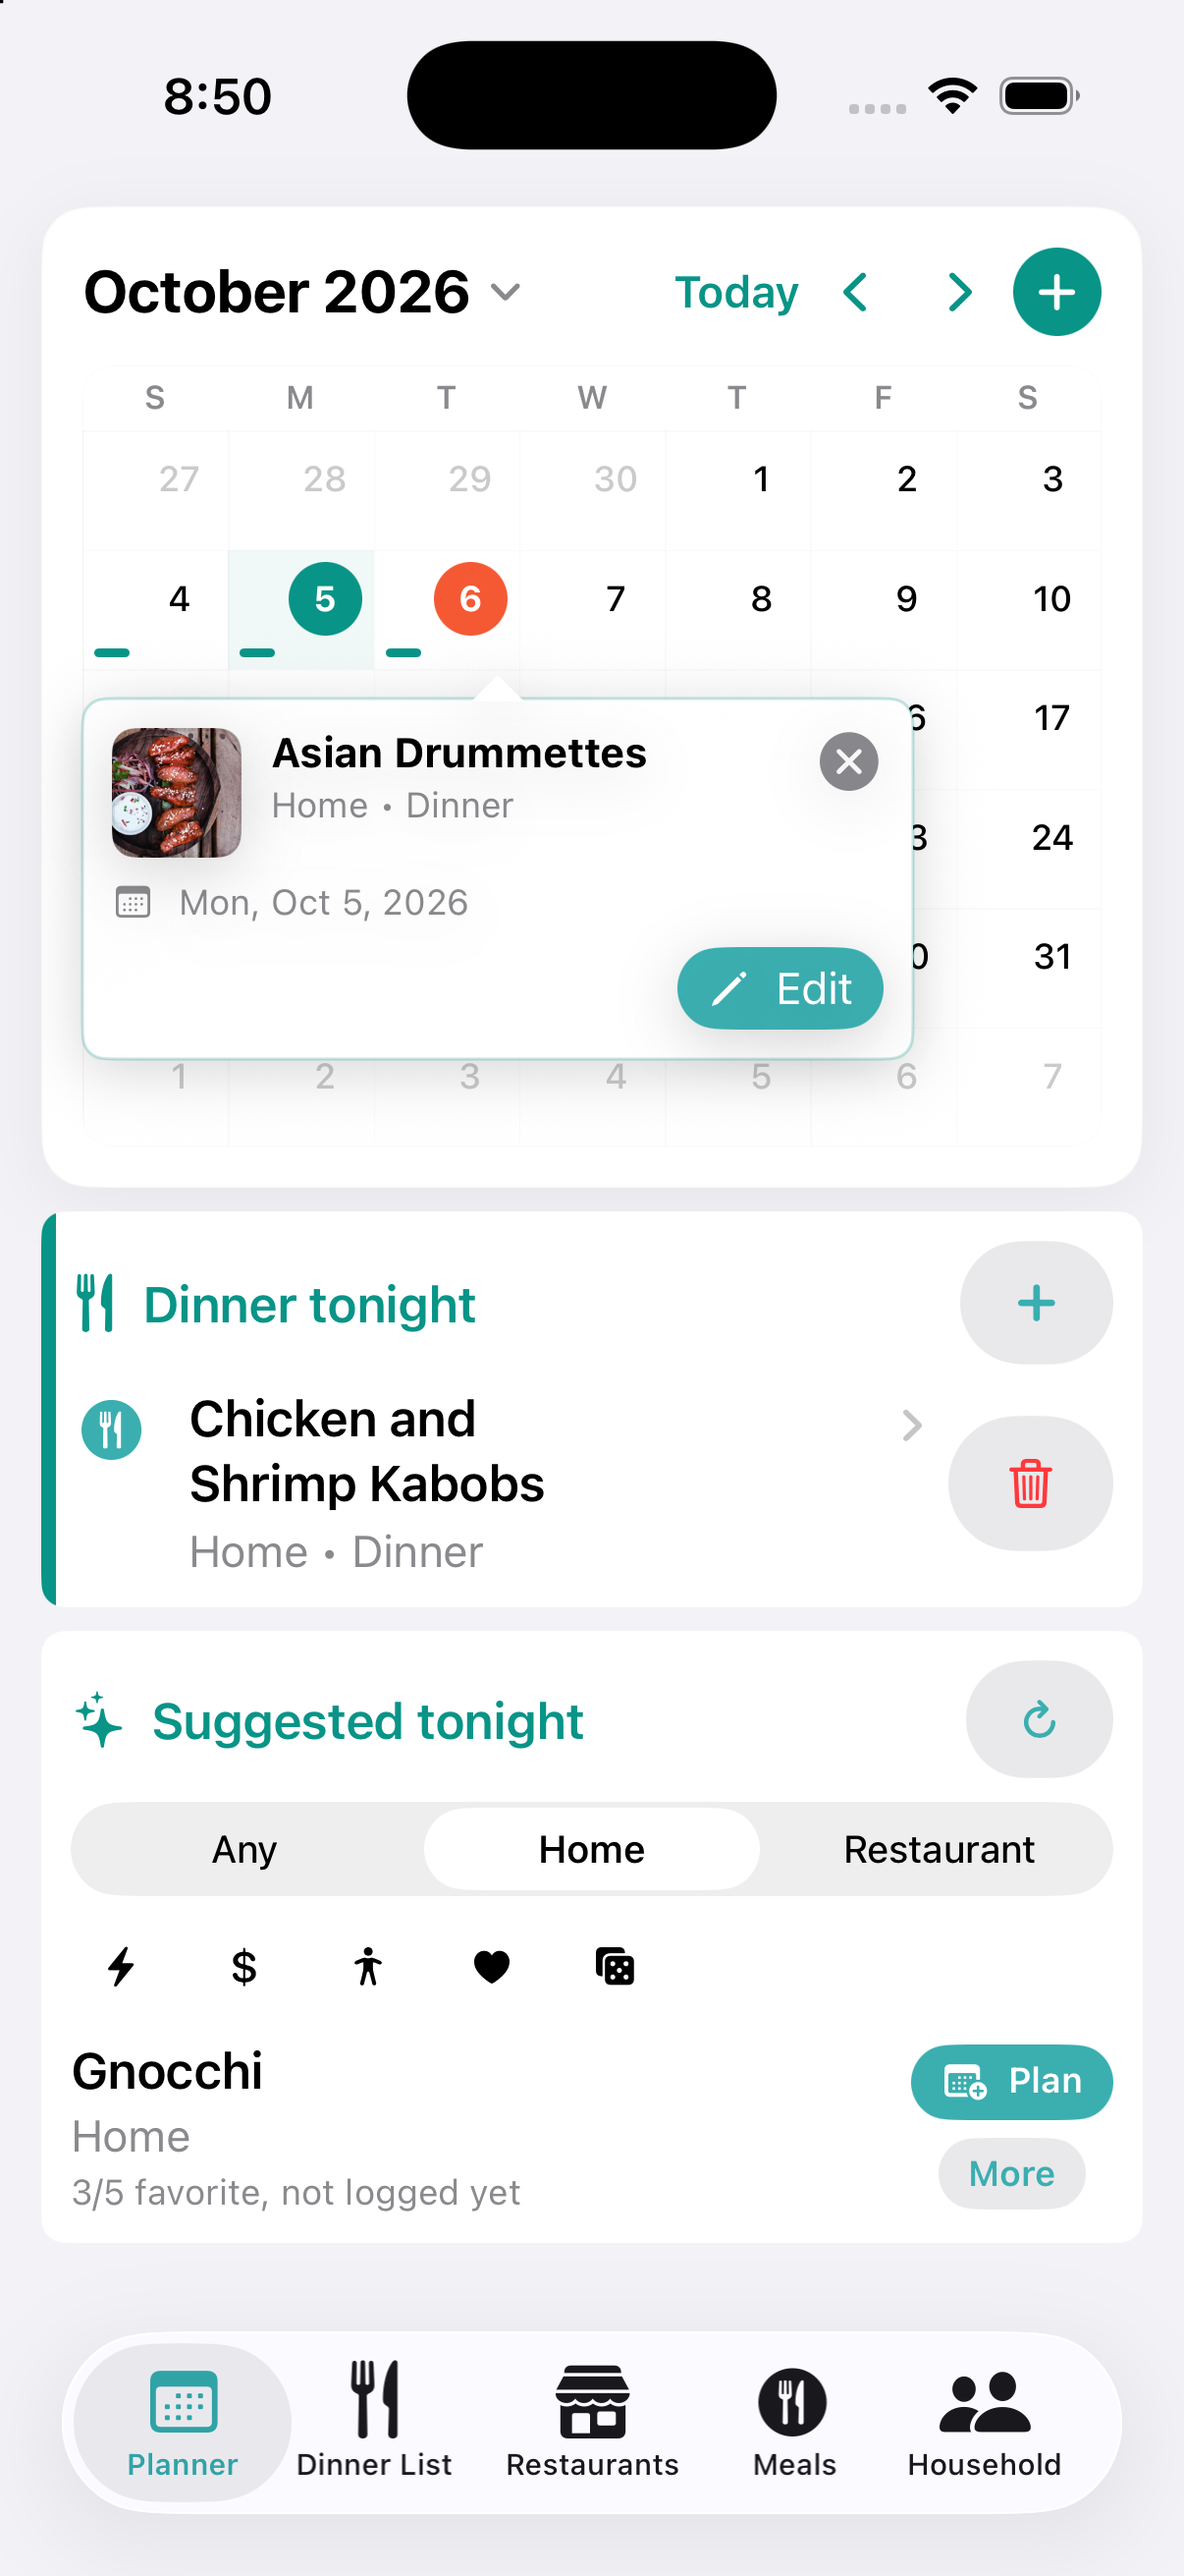
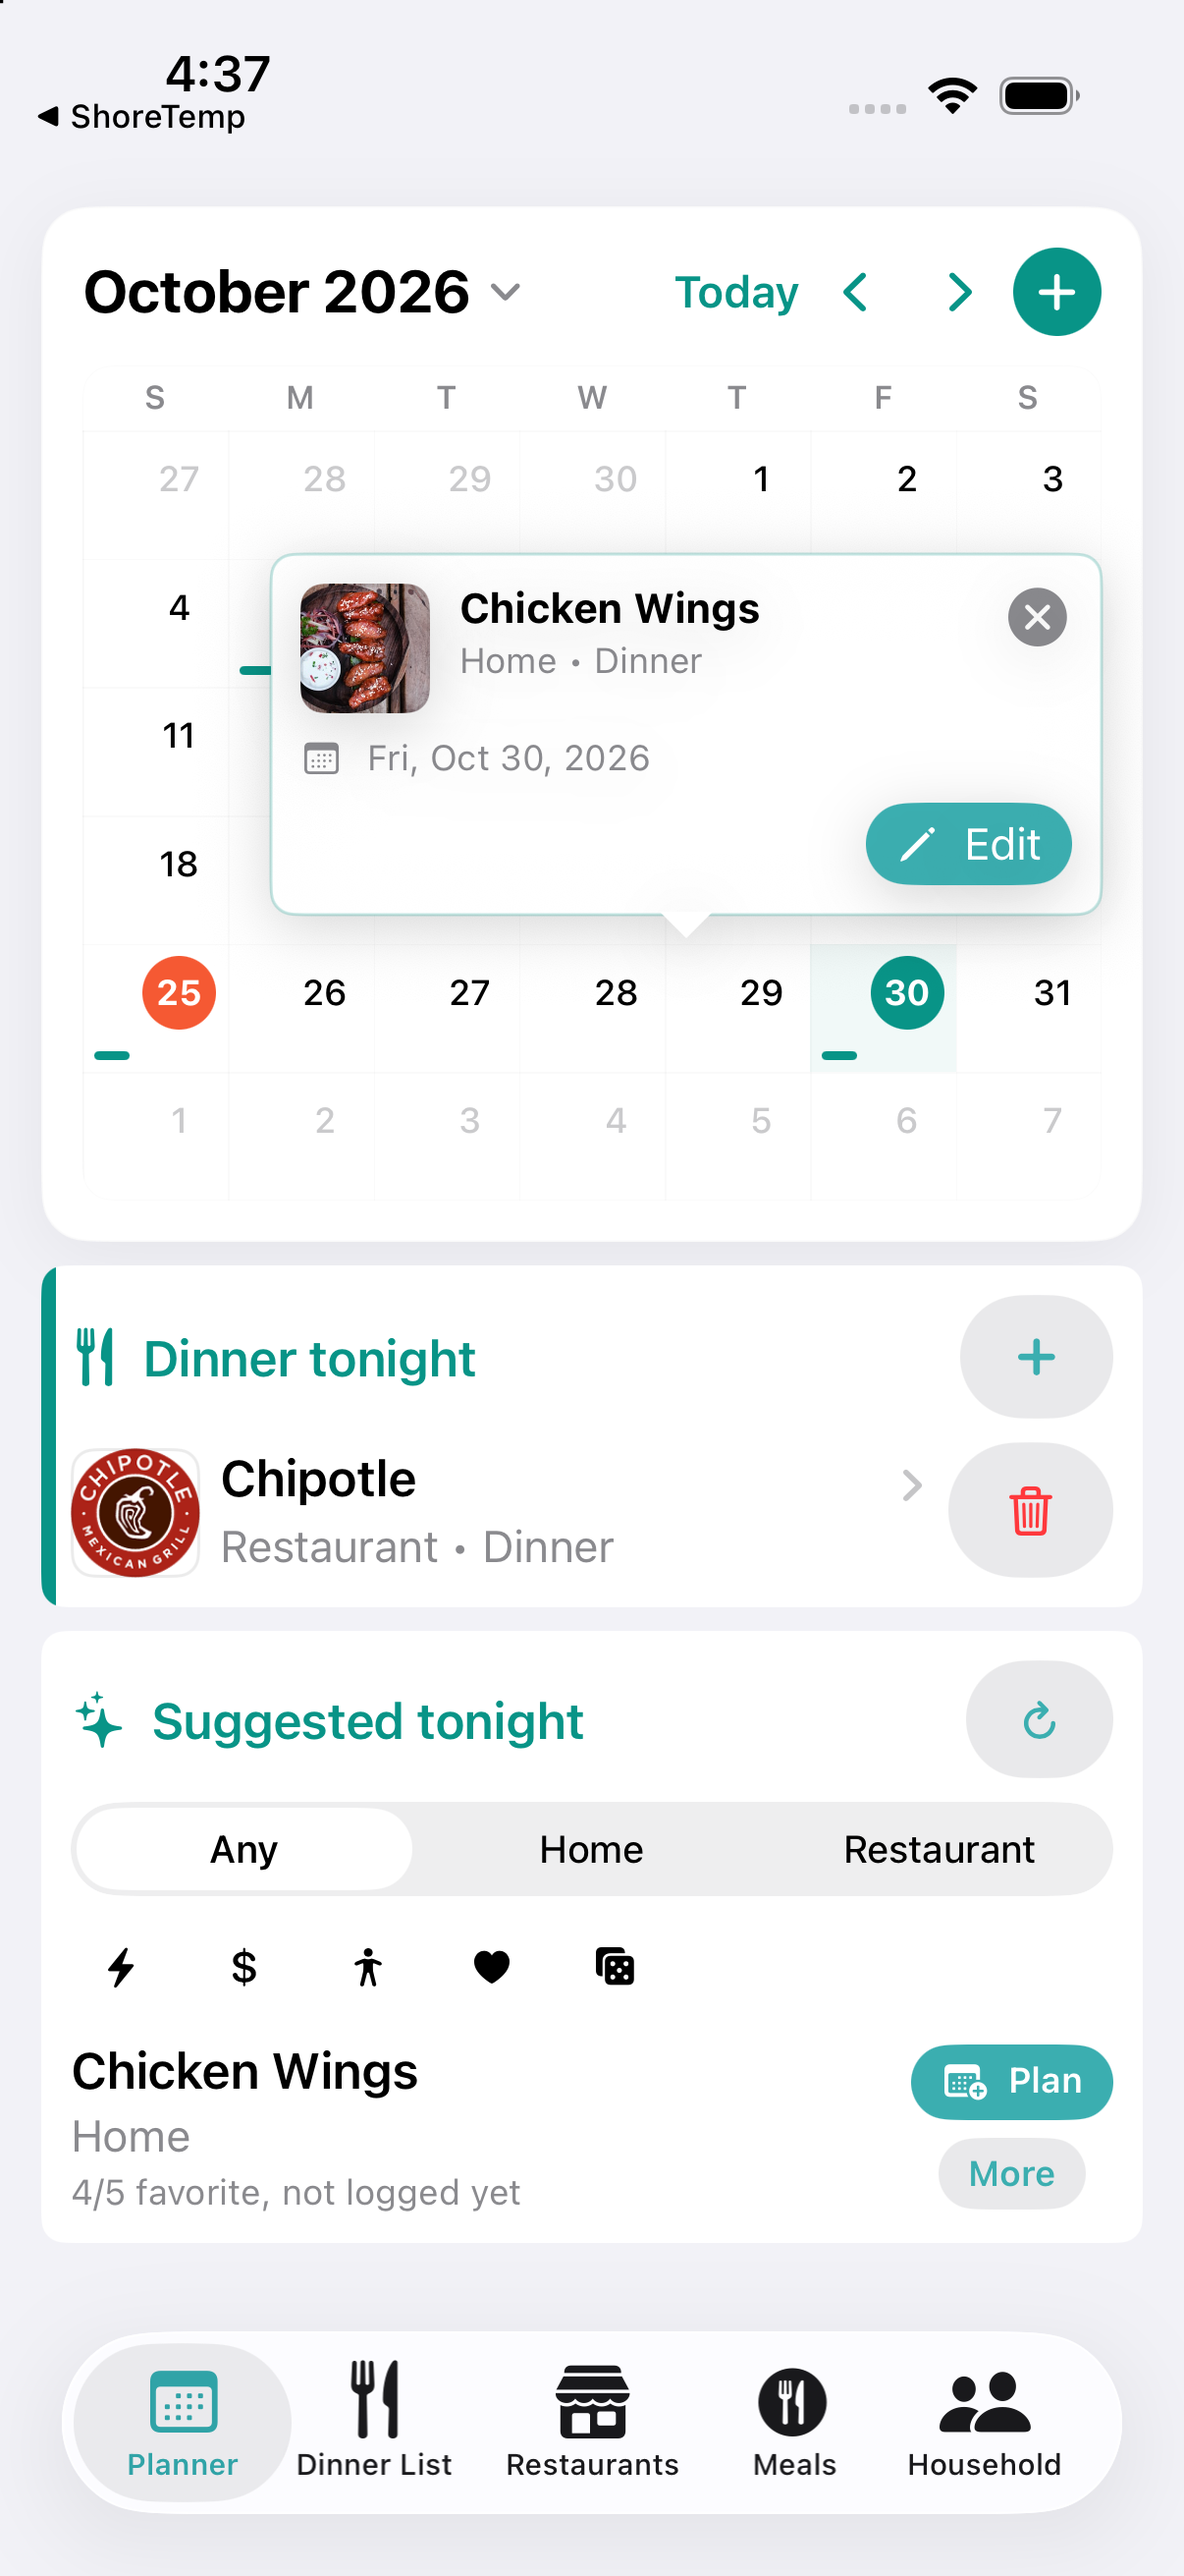
Refresh DishKeeper and ShoreTemp screenshots

diff --git a/dishkeeper/index.html b/dishkeeper/index.html
@@ -36,7 +36,7 @@
 
       <aside class="meal-hero-shot" aria-label="DishKeeper planner screenshot preview">
         <div class="screenshot-frame phone-frame">
-          <img src="../assets/dishkeeper/home.png?v=20261006-planner" width="1206" height="2622" alt="DishKeeper planner screen with the October calendar, planned meal details, dinner tonight card, and suggested meal panel.">
+          <img src="../assets/dishkeeper/home.png?v=20261025-planner" width="1206" height="2622" alt="DishKeeper planner screen with the October calendar, planned meal details, dinner tonight card, and suggested meal panel.">
         </div>
       </aside>
     </section>

diff --git a/shoretemp/index.html b/shoretemp/index.html
@@ -51,7 +51,7 @@
 
       <aside class="shore-hero-shot" aria-label="ShoreTemp locations screenshot preview">
         <div class="screenshot-frame phone-frame">
-          <img src="../assets/shoretemp/iphone02.png?v=20261006-hero" width="1206" height="2622" alt="ShoreTemp iPhone favorites list with map markers, trend chips, search, sorting, and saved water locations.">
+          <img src="../assets/shoretemp/iphone02.png?v=20261025-hero" width="1206" height="2622" alt="ShoreTemp iPhone favorites list with map markers, trend chips, search, sorting, and saved water locations.">
         </div>
       </aside>
     </section>
